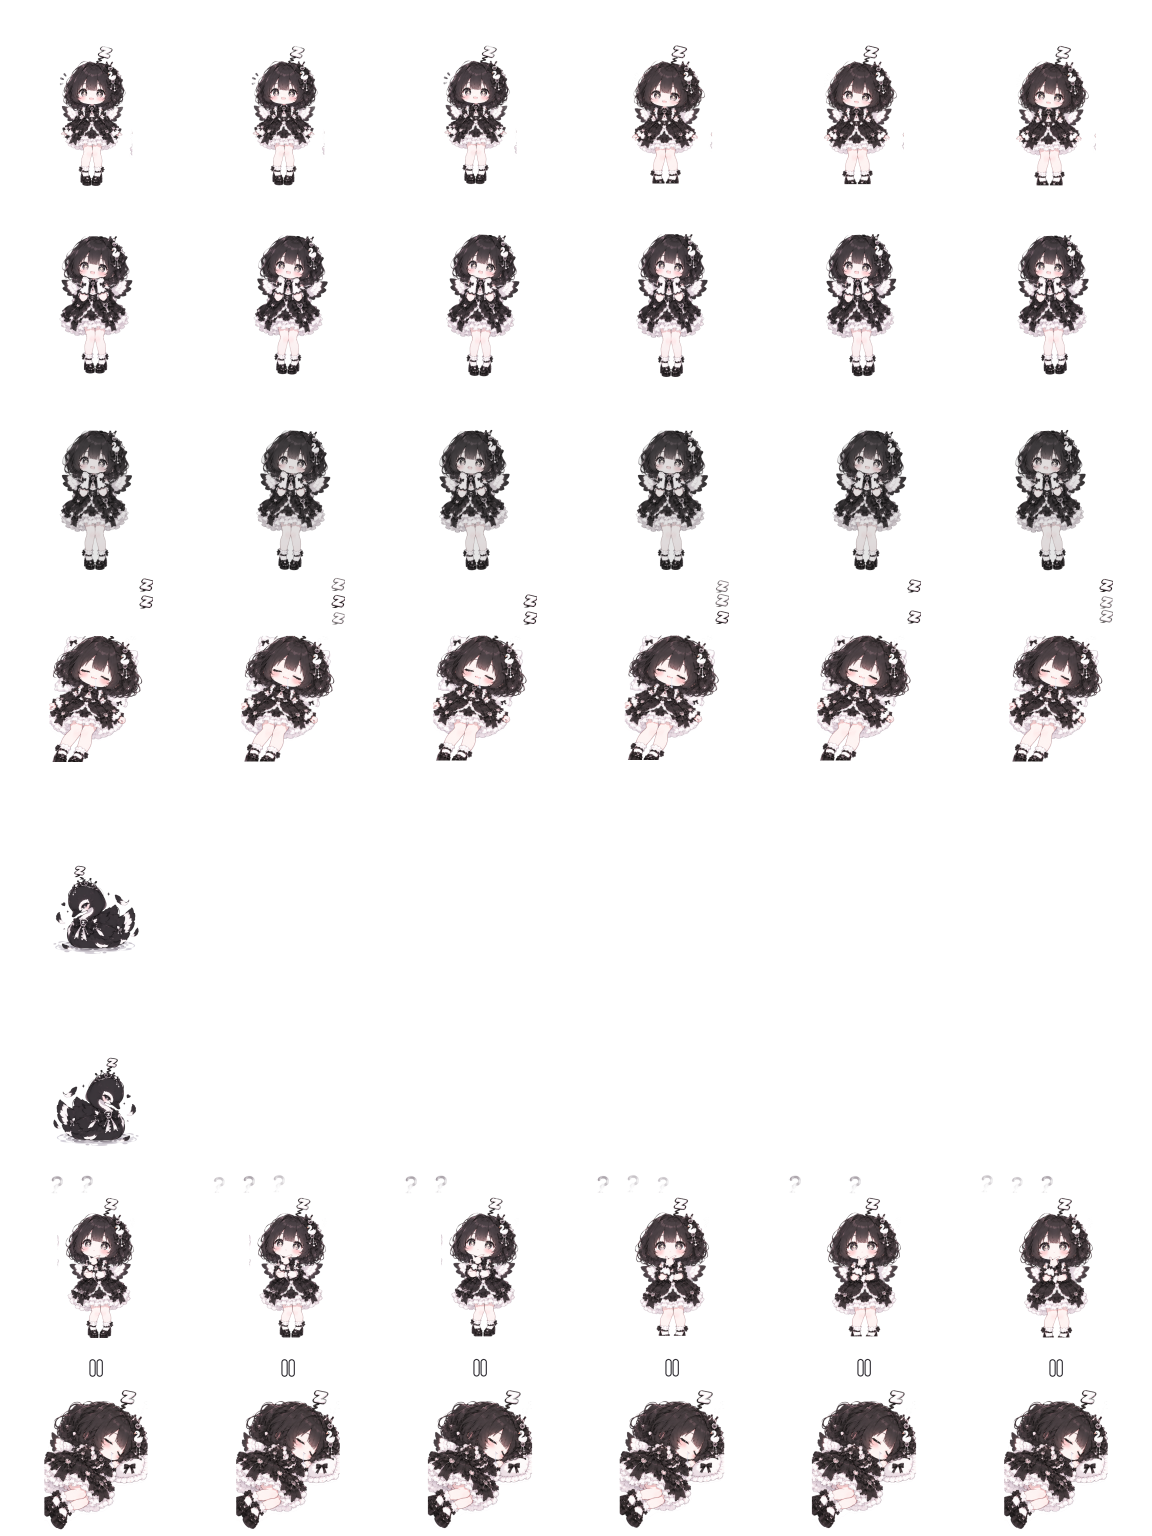
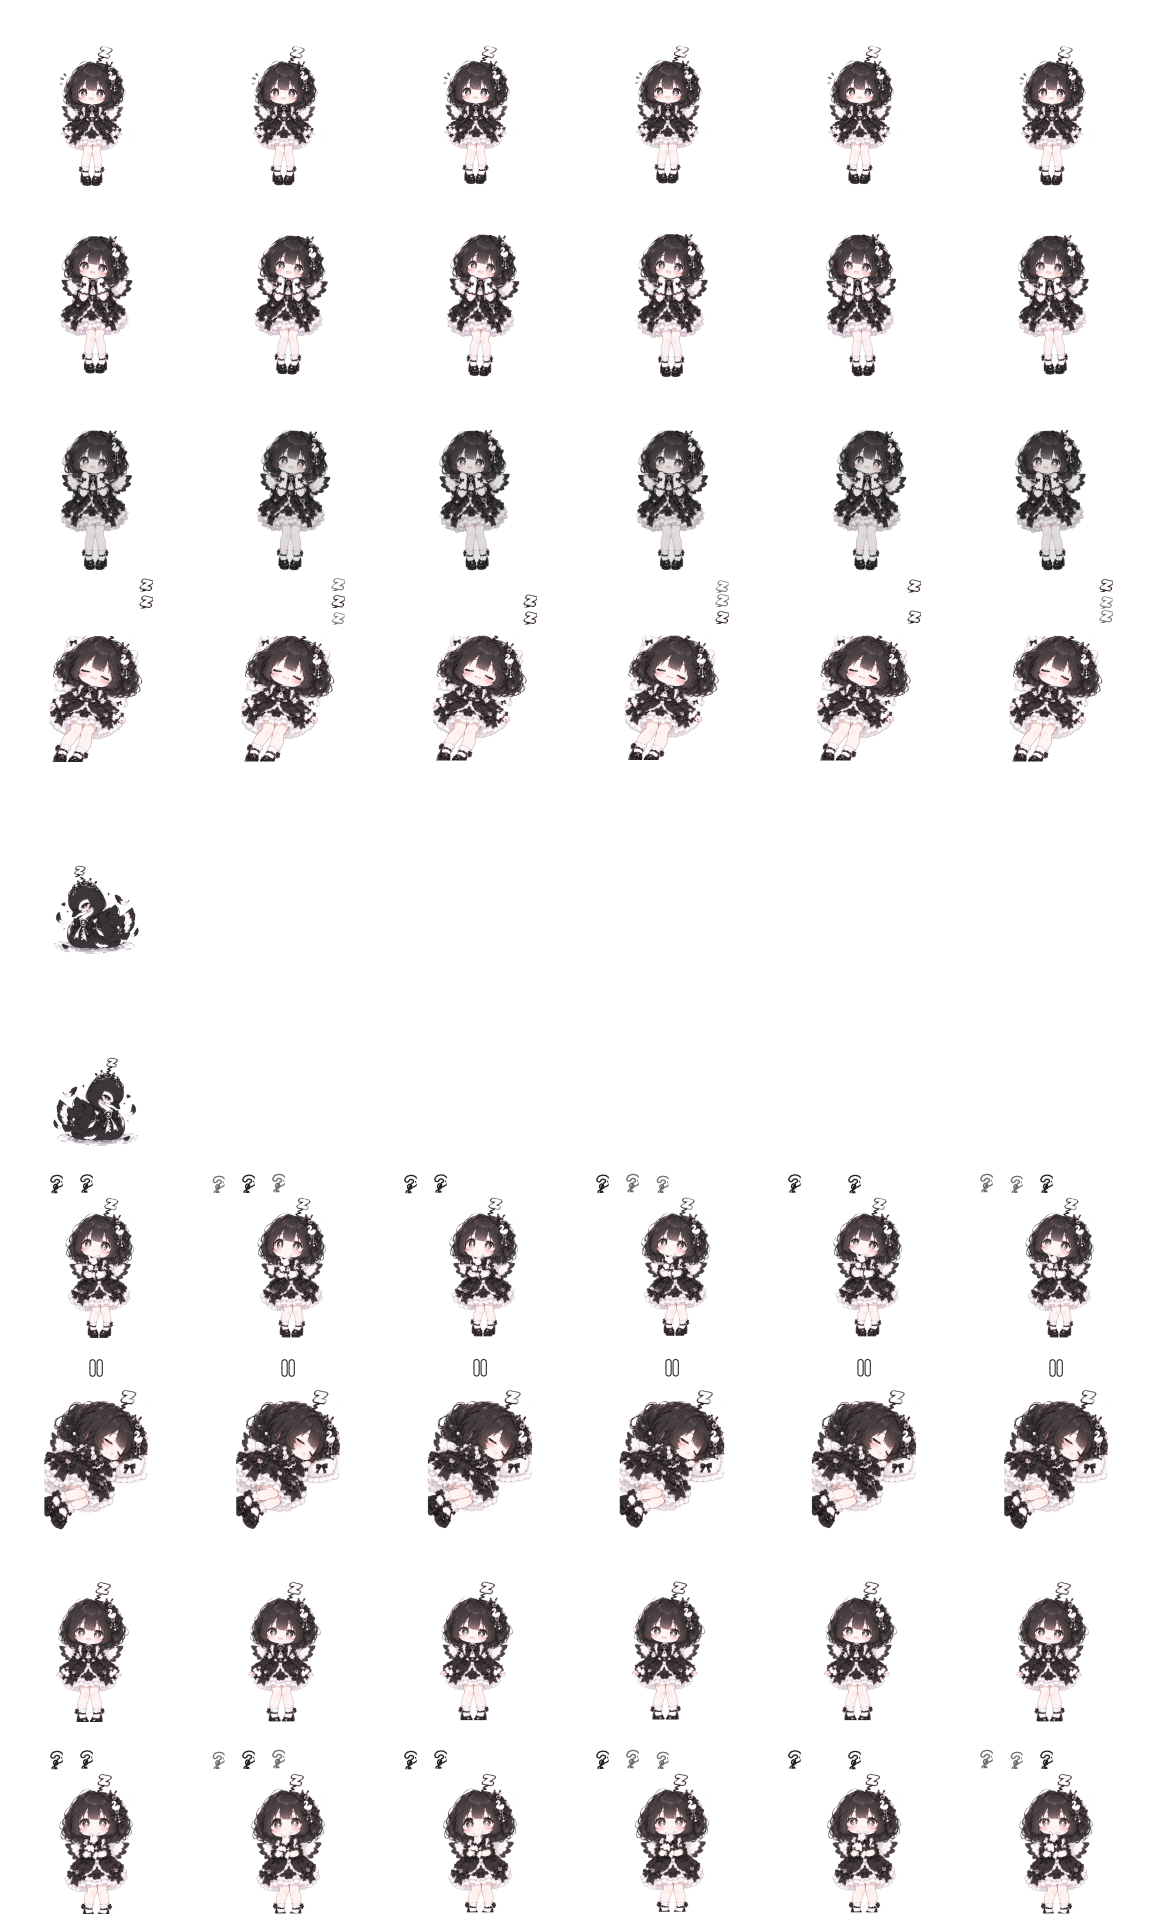
feat: 待机/思考每 30 秒换形象 + 思考手部搓下巴 + "?" 改白底黑边 + 去掉贴边白线
按用户要求四项：

1) 待机两张形象改为**每 30 秒**切换（原来是 3 帧一切 ≈0.75 秒）：
   不再把切换烘焙进帧，而是**拆成两行**由运行期切换 ——
   pet.json 新增 `states.idle_alt`(row8) / `states.thinking_alt`(row9)，图集升到 6 列 × 10 行；
   shared/pack.js 新增 `withPoseAlternate()`（每 30 秒在 x 与 x_alt 之间互换），
   pet/main.js 与 main/dashboard.js 接入（睡觉优先于换形象；包没有 *_alt 时自动不切）。

2) 思考姿势**右手小幅"搓下巴"**：把姿势按"手/下巴矩形"拆成 body + hand 两层，
   hand 每帧上下位移 ±1.6px（正弦，随 6 帧循环），body 被挖掉的矩形用上下边缘插值补掉避免留洞。

3) "?" 气泡改成与头顶 Z 同款：**白色实心 + 深色描边**（新增 `outlineGlyph()`：
   取原字形轮廓 → 填白 → 距离变换生成描边）。

4) 去掉待机第二形象左侧那条白线：那是相邻姿势被切进裁剪框的残渣，
   新增 `dropEdgeSpecks()`（小而贴边、且细长的连通块直接擦掉），每张姿势都过一遍。

校验：25 条用例全通过（30 秒切换 12 条、待机睡觉 2 条、图集 10 行结构 12 条、
      A/B 两形象差异 8%+、方向规则未受影响）；图集 1152×1920 / 772 KB。
预览页加了「🕐 待机 30 秒 → 换形象」按钮（预览侧文件不入库）便于验证。

diff --git a/app/src/main/dashboard.js b/app/src/main/dashboard.js
@@ -1,6 +1,6 @@
 // 总览页：大图与角落宠物同帧同步 + 状态卡 + 暂停 + 事件时间线
 import { invoke } from "../shared/api.js";
-import { loadPackByPref, SpriteAnimator, withIdleSleep } from "../shared/pack.js";
+import { loadPackByPref, SpriteAnimator, withIdleSleep, withPoseAlternate } from "../shared/pack.js";
 
 const statusEl = document.querySelector("#dash-status");
 const detailEl = document.querySelector("#dash-detail");
@@ -20,11 +20,13 @@ const STATUS_LABEL = {
 
 let paused = false;
 let animator;
+let manifestStates = null; // 当前宠物包的 states（判断有没有 *_alt 形象）
 
 export async function bootDashboard() {
   const canvas = document.querySelector("#dash-canvas");
   const pref = await invoke("get_pet_pref_cmd");
   const pack = await loadPackByPref(pref);
+  manifestStates = pack.manifest.states || null;
   const atlas = new Image();
   atlas.src = pack.atlasUrl;
   animator = new SpriteAnimator(canvas, atlas, pack.manifest);
@@ -45,6 +47,7 @@ export async function refreshDashboard() {
   try {
     const pref = await invoke("get_pet_pref_cmd");
     const pack = await loadPackByPref(pref);
+    manifestStates = pack.manifest.states || null;
     const canvas = document.querySelector("#dash-canvas");
     const atlas = new Image();
     atlas.src = pack.atlasUrl;
@@ -58,7 +61,9 @@ async function tick() {
   try {
     const s = JSON.parse(await invoke("read_state"));
     paused = !!s.paused;
-    const status = paused ? "paused" : withIdleSleep(s.status || "sleep", Date.parse(s.since || ""), Date.now());
+    const sinceMs = Date.parse(s.since || "");
+    let status = paused ? "paused" : withIdleSleep(s.status || "sleep", sinceMs, Date.now());
+    if (!paused) status = withPoseAlternate(status, sinceMs, Date.now(), manifestStates);
     animator?.setStatus(status);
     statusEl.textContent = paused
       ? "已暂停 ⏸（点宠物或此处恢复）"

diff --git a/app/src/pet/main.js b/app/src/pet/main.js
@@ -1,6 +1,12 @@
 // Z-Buddy 宠物窗：精灵动画 + 状态轮询 + 点按暂停 + 拖动 + 右键菜单
 import { invoke, listen } from "../shared/api.js";
-import { loadPackByPref, SpriteAnimator, pickDragState, withIdleSleep } from "../shared/pack.js";
+import {
+  loadPackByPref,
+  SpriteAnimator,
+  pickDragState,
+  withIdleSleep,
+  withPoseAlternate,
+} from "../shared/pack.js";
 
 const pet = document.querySelector("#pet");
 const canvas = document.querySelector("#pet-canvas");
@@ -58,7 +64,9 @@ async function tick() {
       idleSinceLocal = null;
     }
     const sinceMs = Date.parse(s.since || "") || idleSinceLocal;
-    const status = paused ? "paused" : withIdleSleep(raw, sinceMs, Date.now());
+    // 待机超时 → 睡觉；待机/思考各有两张形象，每 30 秒换一张（包里有 *_alt 才切）
+    let status = paused ? "paused" : withIdleSleep(raw, sinceMs, Date.now());
+    if (!paused) status = withPoseAlternate(status, sinceMs, Date.now(), pack?.manifest?.states);
     // 长按拖动期间动画由拖动形象接管，别让轮询把状态覆盖回去
     if (!dragState) {
       pet.className = paused ? "paused-ui" : status;

diff --git a/app/src/shared/pack.js b/app/src/shared/pack.js
@@ -81,6 +81,21 @@ export function withIdleSleep(status, sinceMs, nowMs, thresholdMs = IDLE_SLEEP_M
   return nowMs - sinceMs >= thresholdMs ? "sleep" : status;
 }
 
+/** 待机/思考各有两张形象，运行期每 30 秒换一张 */
+export const POSE_ALT_MS = 30000;
+
+/**
+ * 按"进入该状态后过了多久"在两张形象之间切换：idle ⇄ idle_alt、thinking ⇄ thinking_alt。
+ * states 传当前宠物包的 manifest.states：没有 *_alt 键时保持原状态（外部宠物自动降级）。
+ */
+export function withPoseAlternate(status, sinceMs, nowMs, states, periodMs = POSE_ALT_MS) {
+  if (status !== "idle" && status !== "thinking") return status;
+  if (!Number.isFinite(sinceMs)) return status;
+  const alt = `${status}_alt`;
+  if (!states || !states[alt]) return status;
+  return Math.floor((nowMs - sinceMs) / periodMs) % 2 === 1 ? alt : status;
+}
+
 /** 精灵图动画器：bind 到 canvas，按状态名推帧（imageSmoothing 关闭保像素风） */
 export class SpriteAnimator {
   constructor(canvas, atlas, manifest) {

diff --git a/CHANGELOG.md b/CHANGELOG.md
@@ -7,13 +7,16 @@
 
 ### 新增
 
-- **多姿势状态动画 + 气泡系统**（新构建器 `app/tools/gen_yoru_atlas.mjs`，图集升到 6 列 × 8 行）：
-  - **待机**：两张站姿交替 + 呼吸；
-  - **睡觉**：躺卧姿势 + 头顶 **Z 气泡**（最多 3 个、上下排列、依次出现，出第 4 个时最早的消失）；
-  - **思考中**：两张思考姿势交替 + 头旁 **"?" 气泡**（最多 3 个、并排排列、同样的队列规则）；
+- **多姿势状态动画 + 气泡系统**（新构建器 `app/tools/gen_yoru_atlas.mjs`，图集 6 列 × 10 行）：
+  - **待机**：两张站姿（`idle` / `idle_alt`）**每 30 秒换一张**，各自带呼吸；
+  - **睡觉**：躺卧姿势 + 头顶 **Z 气泡**（最多 3 个、上下排列、依次出现，第 4 个出现时最早的消失）；
+  - **思考中**：两张思考姿势（`thinking` / `thinking_alt`）同样每 30 秒换，头旁 **"?" 气泡**
+    （最多 3 个、并排排列、同样的队列规则），并且**手指做小幅"搓下巴"动作**（手部区域独立位移）；
   - **暂停**：蜷缩姿势 + 头顶**暂停气泡**（程序绘制，白条 + 深色描边，与 Z/? 同风格）——
     暂停从此是**独立状态行**（`pet.json` 的 `states.paused`），不再借用睡觉姿势，也不再叠灰度滤镜；
   - 气泡全部**烘焙进精灵图帧**（构建期合成），运行时零额外开销、应用代码零改动；
+  - "?" 做成与头顶 Z 同款：**白色实心 + 深色描边**（`outlineGlyph()`）；
+  - 清掉姿势裁剪框边缘混进来的邻姿势残渣（就是待机第二形象左侧那条白线，`dropEdgeSpecks()`）；
 - **拖动形象缩到一半**（天鹅 177px → 88px），按用户要求；
 - 通用生成器 `gen_illustration_pet.mjs` 新增导出（`renderFrame` / `boxDown` / `gradeError` / `alphaOver`），
   供专用构建器复用。

diff --git a/AGENTS.md b/AGENTS.md
@@ -126,11 +126,15 @@ ZCode Agent
   所以 6 种状态就 6 行、每行 6 帧就 6 列 —— 换形态只改 `pet.json`，应用代码零改动；
 - 基础状态：`idle / thinking / working / permission / error / sleep`（可复用同一行）；
 - **可选扩展状态**：`drag_left` / `drag_right`（长按拖动的静态形象，左右互为镜像）、
-  `paused`（点桌宠暂停时的姿态）—— 宠物包没有这些键时自动降级为普通状态动画；
+  `paused`（点桌宠暂停时的姿态）、`idle_alt` / `thinking_alt`（待机/思考的**第二张形象**：
+  运行期每 30 秒与 `idle`/`thinking` 互换，规则在 `pack.js` 的 `withPoseAlternate()`）——
+  宠物包没有这些键时自动降级为普通状态动画；
 - **气泡（Z / ? / 暂停）烘焙进精灵图帧**：队列语义（最多 N 个、依次出现、最早的先消失、
   上下或并排排列）都在构建期合成，运行时不额外绘制 → 应用代码零改动；
-- 夜羽当前是 **6 列 × 8 行**（`idle/working/error/sleep/drag_left/drag_right/thinking/paused`），
-  图集 1152×1536；working/permission/error 仍用旧立绘（用户未指定这三个状态的新姿势）。
+- 夜羽当前是 **6 列 × 10 行**（`idle/working/error/sleep/drag_left/drag_right/thinking/paused/idle_alt/thinking_alt`），
+  图集 1152×1920；working/permission/error 仍用旧立绘（用户未指定这三个状态的新姿势）；
+- 思考行额外做了**手部小幅搓下巴**：姿势按"手/下巴矩形"拆成 body + hand 两层，hand 每帧上下位移 ±1.6px，
+  body 被挖掉的矩形用上下边缘插值补掉（避免留洞）；带气泡的状态行角色高度统一 140px（给气泡留空间）。
 
 ### 长按拖动 = 切换拖动形象（可选能力）
 
